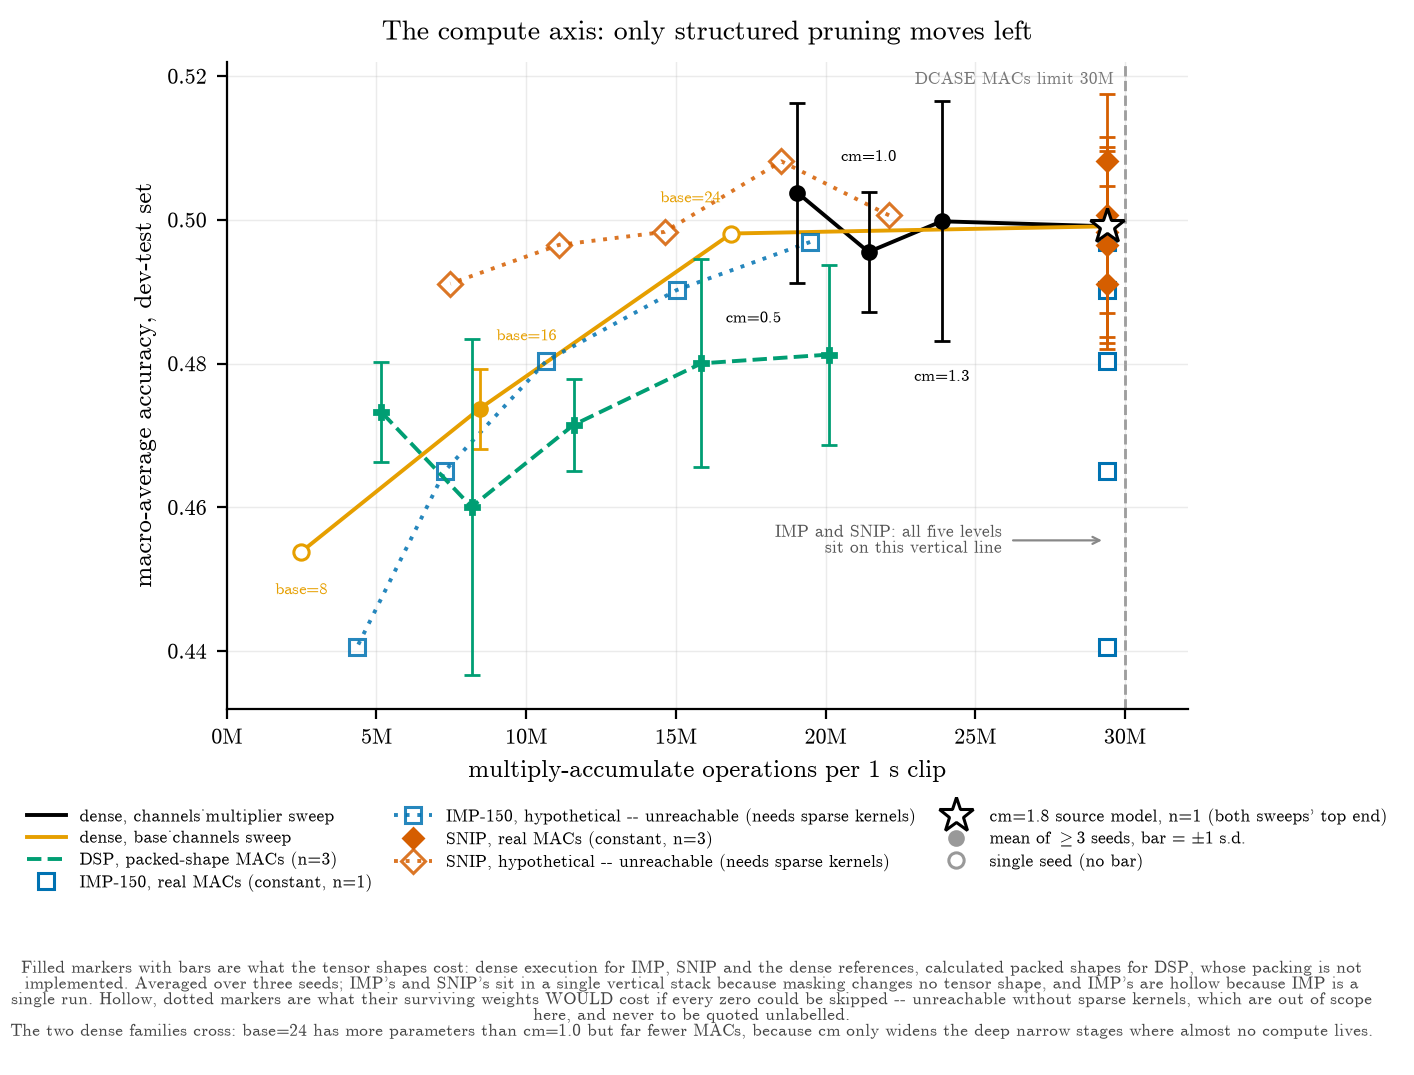
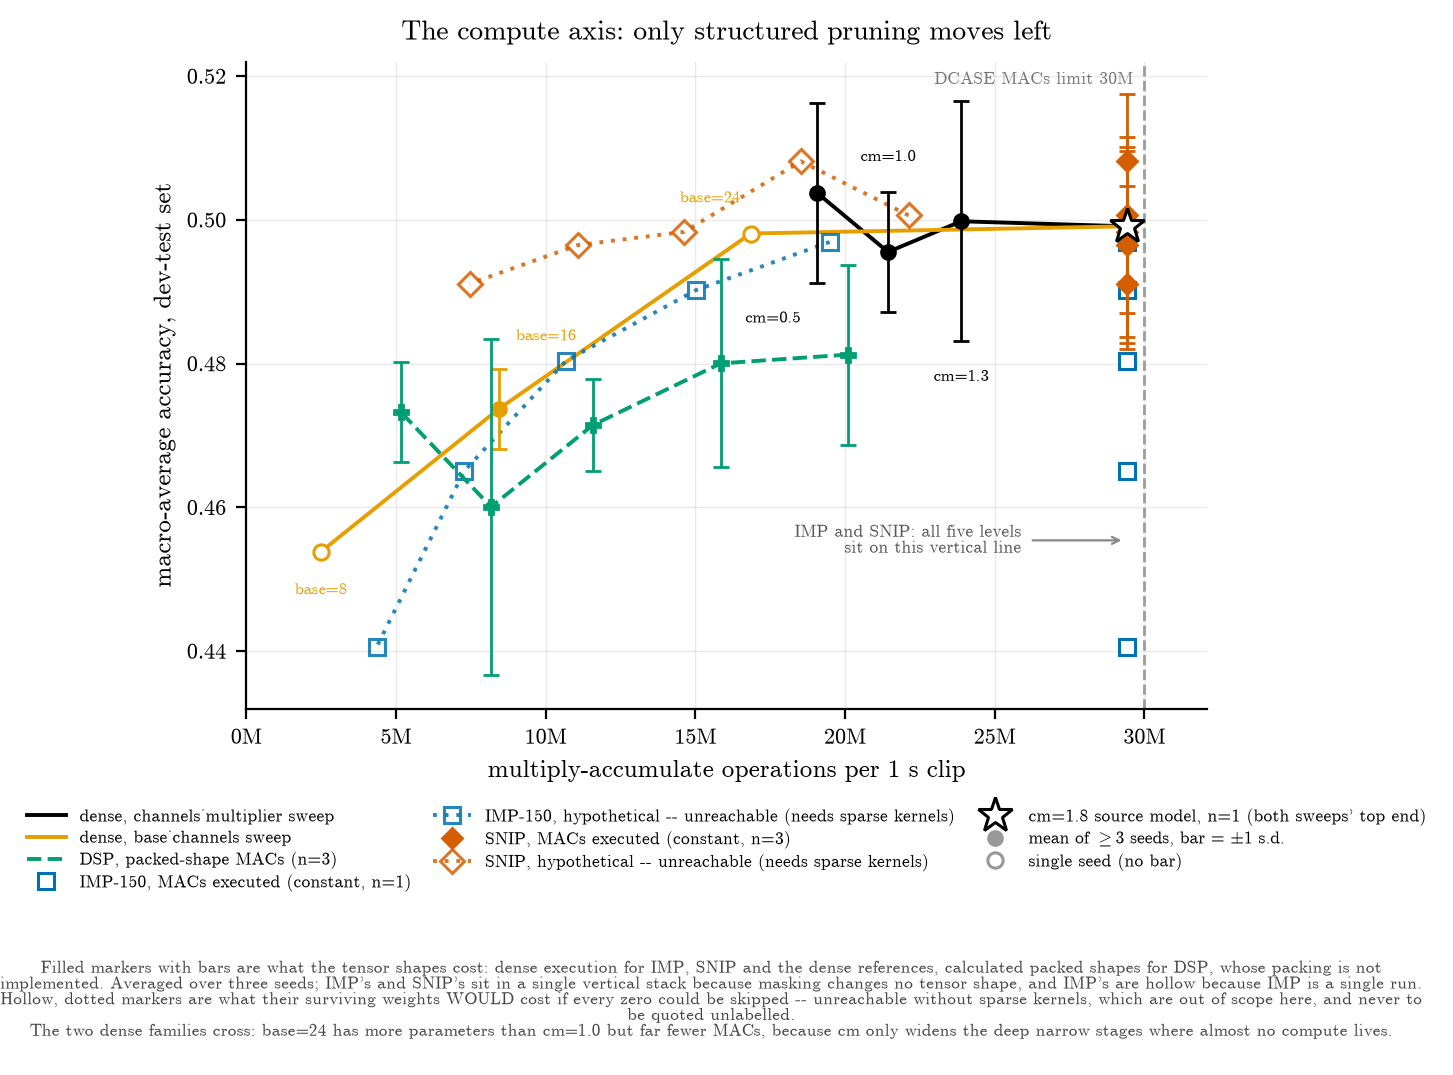
doc(experiments): correct shaded-region and executed-MACs labels

diff --git a/experiments/plot_results.py b/experiments/plot_results.py
@@ -292,7 +292,7 @@ def fig_accuracy_vs_params(res: dict) -> list[Path]:
                     xy=(0.985, pub["accuracy"]), xycoords=("axes fraction", "data"),
                     xytext=(0, 4), textcoords="offset points", ha="right", va="bottom",
                     fontsize=6.2, color="#777777", zorder=8)
-        ax.annotate("no dense model exists at these sizes", xy=(smallest_exact, 0.925),
+        ax.annotate("no dense model at\na pruned model's size", xy=(smallest_exact, 0.925),
                     xycoords=("data", "axes fraction"), xytext=(-5, 0),
                     textcoords="offset points", ha="right", va="top", fontsize=6.2,
                     color="#777777", zorder=8)

diff --git a/README.md b/README.md
@@ -70,8 +70,8 @@ that number is stated.
 **Almost nothing here is statistically significant, and that is a result.** The pooled
 seed-to-seed standard deviation is 1.29 pp over 30 degrees of freedom. With three seeds a side,
 a margin has to reach 2.93 pp before Welch's test can reject at α = 0.05. Exactly one does.
-Several conclusions drawn from single-seed data earlier in the project reversed sign once more
-seeds landed, including two changes of sign; the generated report lists them under
+Four conclusions drawn from single-seed data earlier in the project failed once more seeds
+landed, two of them because the margin they rested on changed sign; the report lists them under
 **Retractions** rather than quietly dropping them. Every accuracy here is on the development-test
 split, which the project consulted while deciding what to run next — these are development-set
 results, not a confirmation on held-out evaluation data.
